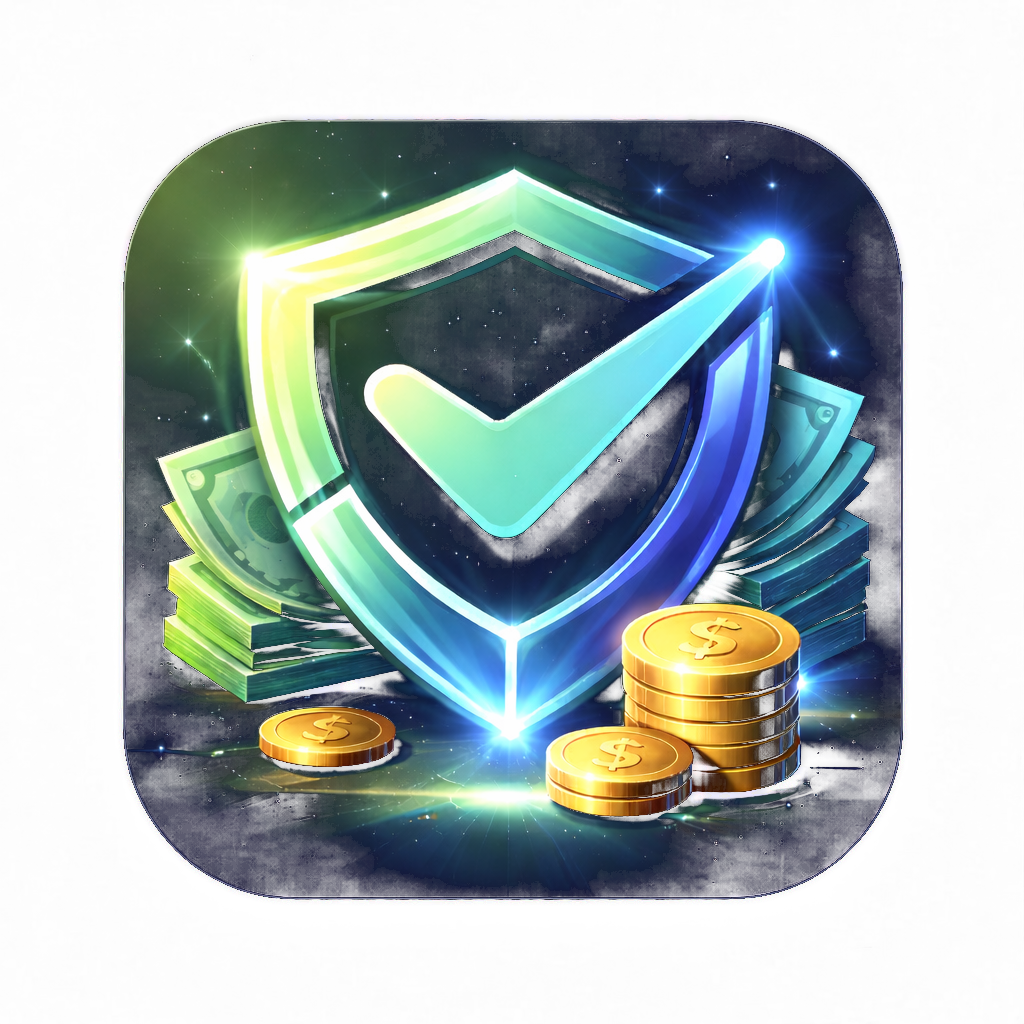
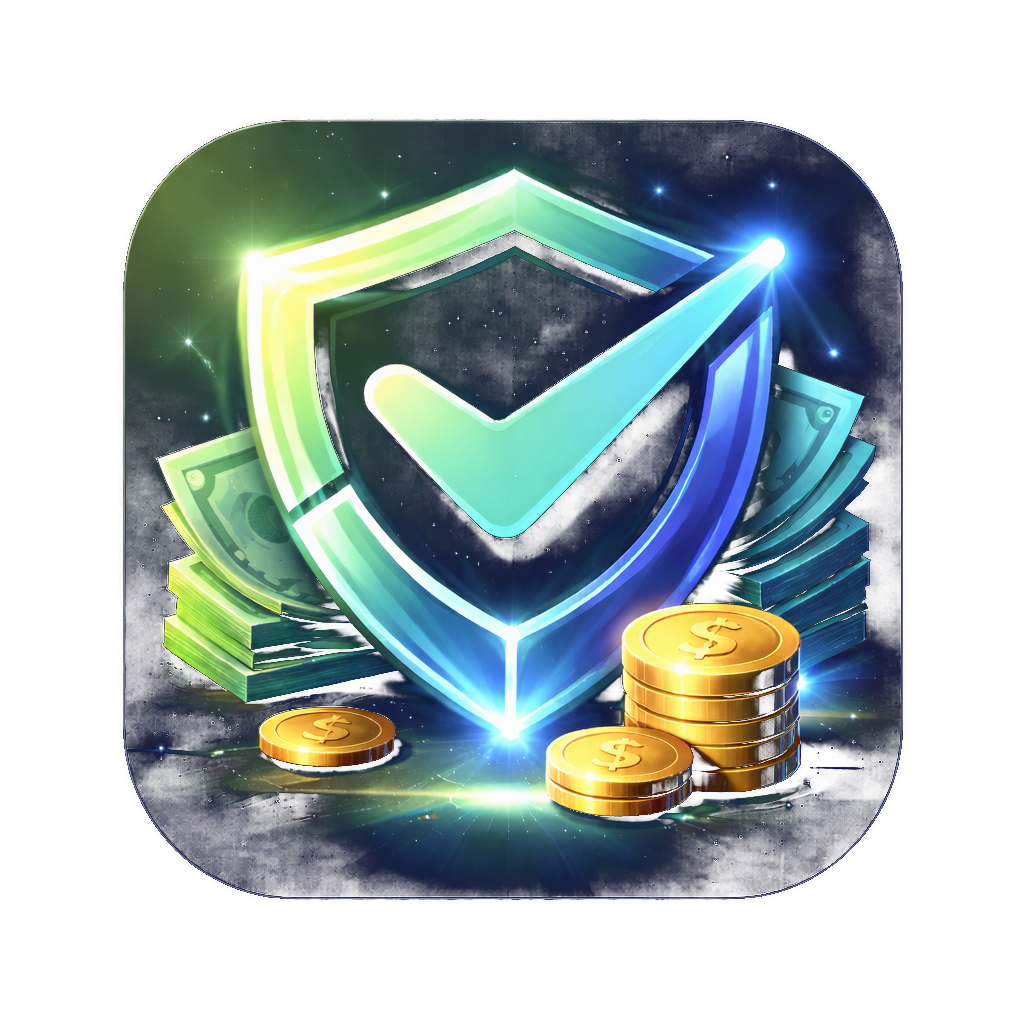
Ultra-Premium Branding: Eradicated white margins on Mac/iOS via surgical alpha erosion and core-color clamping (v3 Update)

diff --git a/src/app/manifest.ts b/src/app/manifest.ts
@@ -16,25 +16,25 @@ export default function manifest(): MetadataRoute.Manifest {
     orientation: 'portrait',
     icons: [
       {
-        src: '/App%20icons/Kontrola_GooglePlay_512x512.png?v=2',
+        src: '/App%20icons/Kontrola_GooglePlay_512x512.png?v=3',
         sizes: '512x512',
         type: 'image/png',
         purpose: 'any',
       },
       {
-        src: '/App%20icons/Kontrola_GooglePlay_512x512.png?v=2',
+        src: '/App%20icons/Kontrola_GooglePlay_512x512.png?v=3',
         sizes: '512x512',
         type: 'image/png',
         purpose: 'maskable',
       },
       {
-        src: '/App%20icons/Kontrola_Desktop_512x512.png?v=2',
+        src: '/App%20icons/Kontrola_Desktop_512x512.png?v=3',
         sizes: '512x512',
         type: 'image/png',
         purpose: 'any',
       },
       {
-        src: '/App%20icons/Kontrola_Apple_1024x1024.png?v=2',
+        src: '/App%20icons/Kontrola_Apple_1024x1024.png?v=3',
         sizes: '1024x1024',
         type: 'image/png',
         purpose: 'any',

diff --git a/src/app/layout.tsx b/src/app/layout.tsx
@@ -48,8 +48,8 @@ export const metadata: Metadata = {
   publisher: 'KONTROLA',
   
   icons: {
-    icon: '/icon.png?v=2',
-    apple: '/App%20icons/Kontrola_Apple_1024x1024.png?v=2',
+    icon: '/icon.png?v=3',
+    apple: '/App%20icons/Kontrola_Apple_1024x1024.png?v=3',
   },
   
   // PWA and App icon configurations
